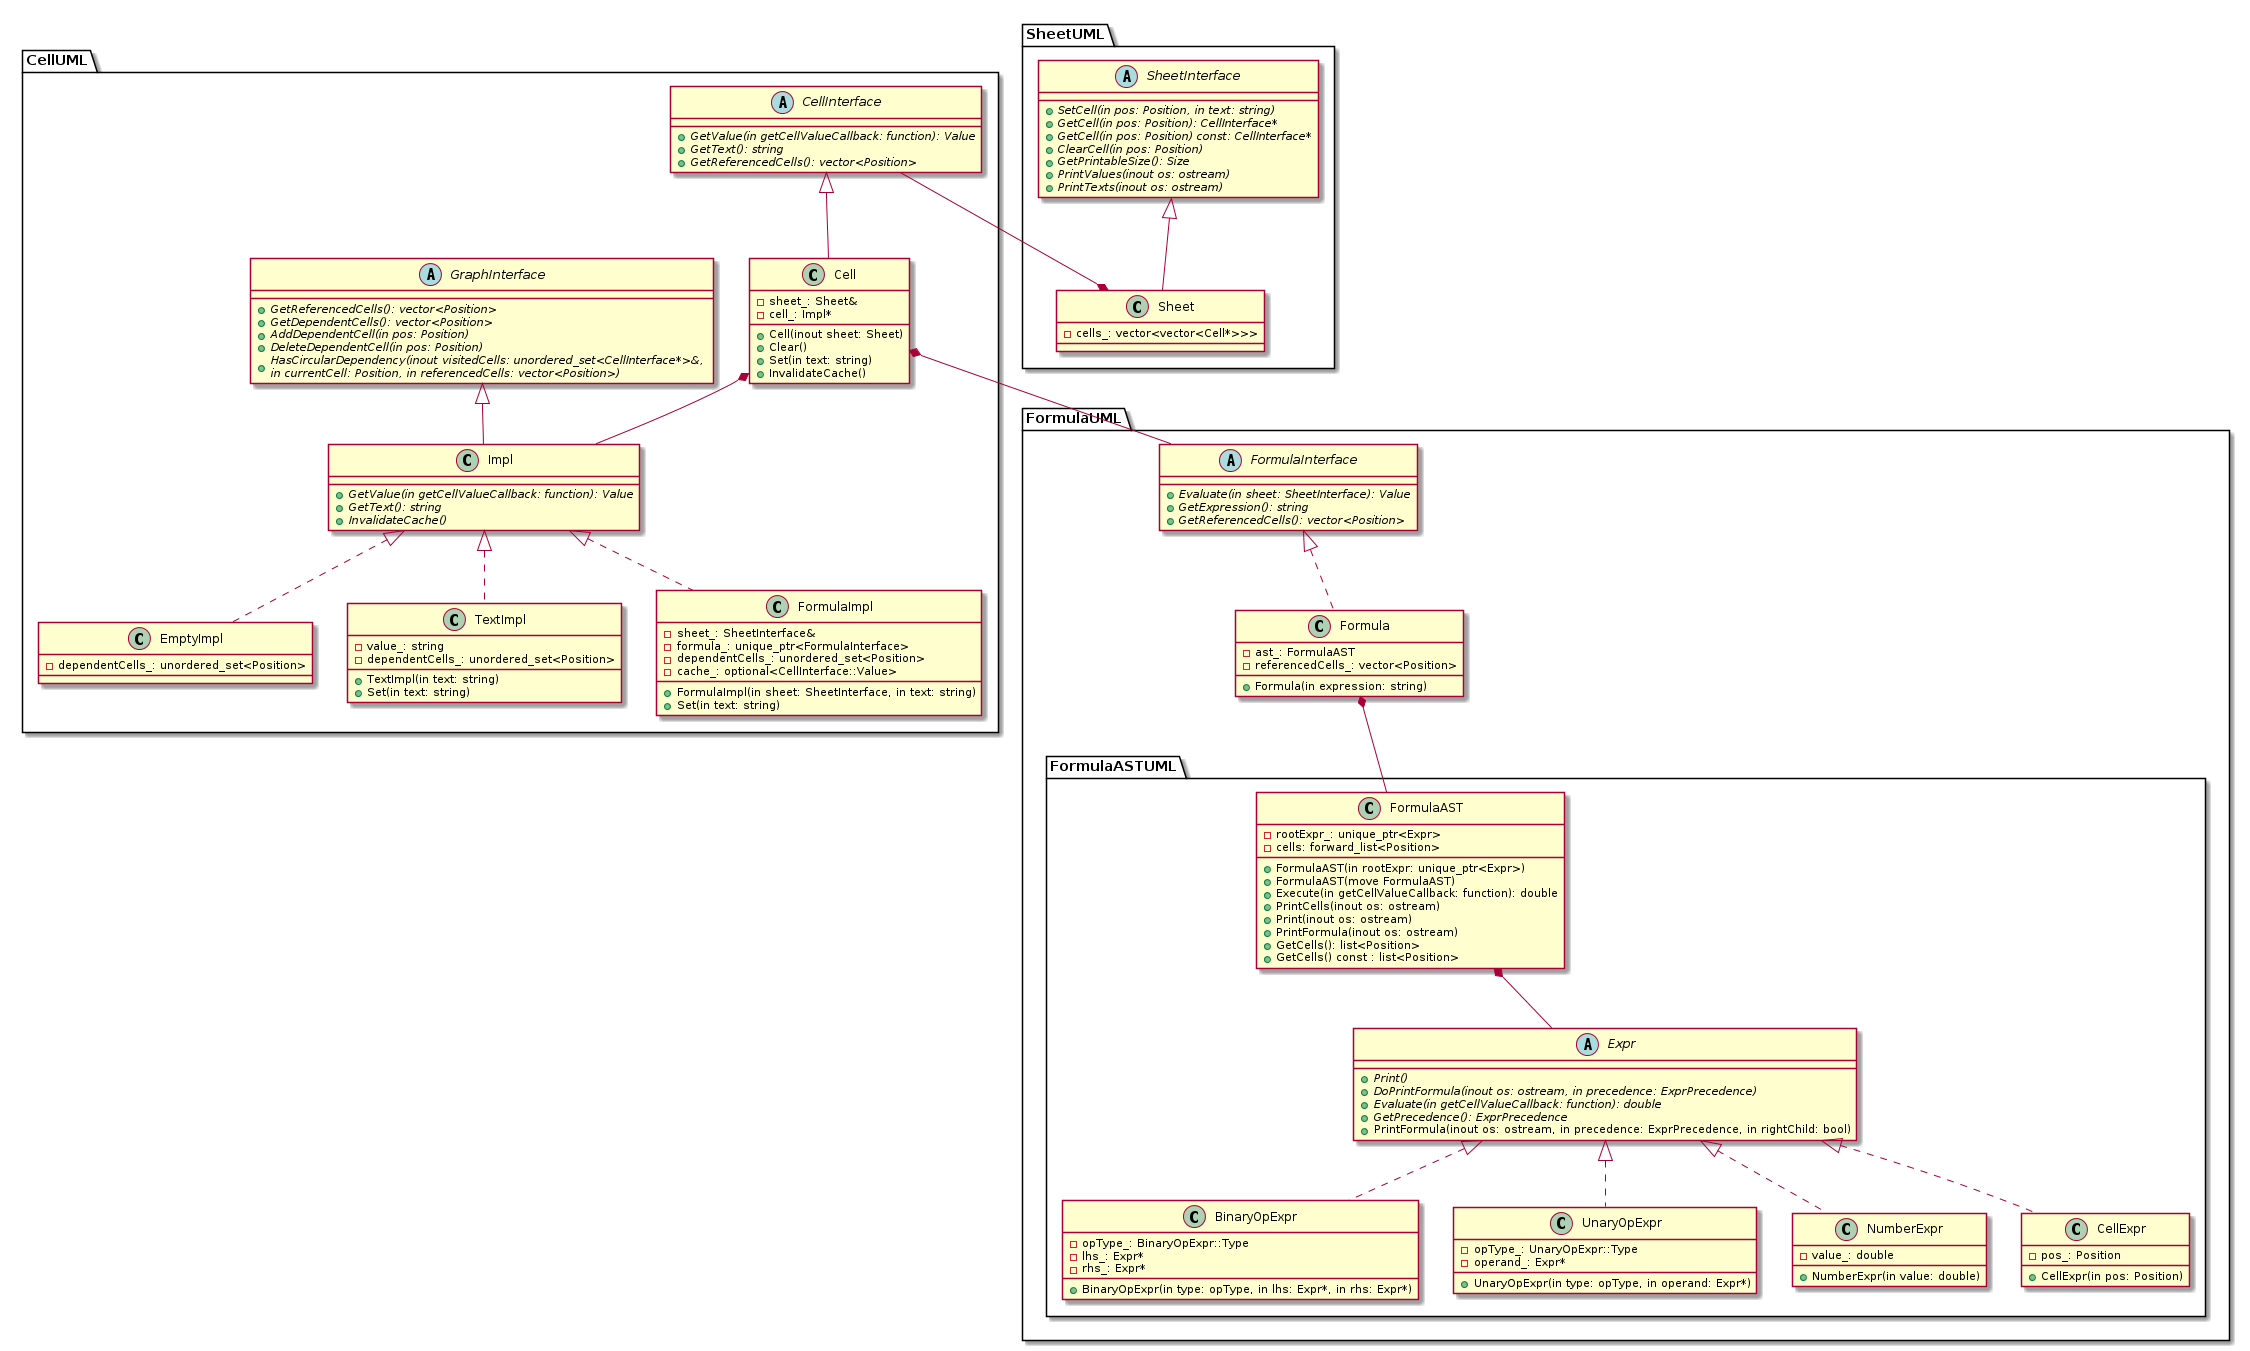
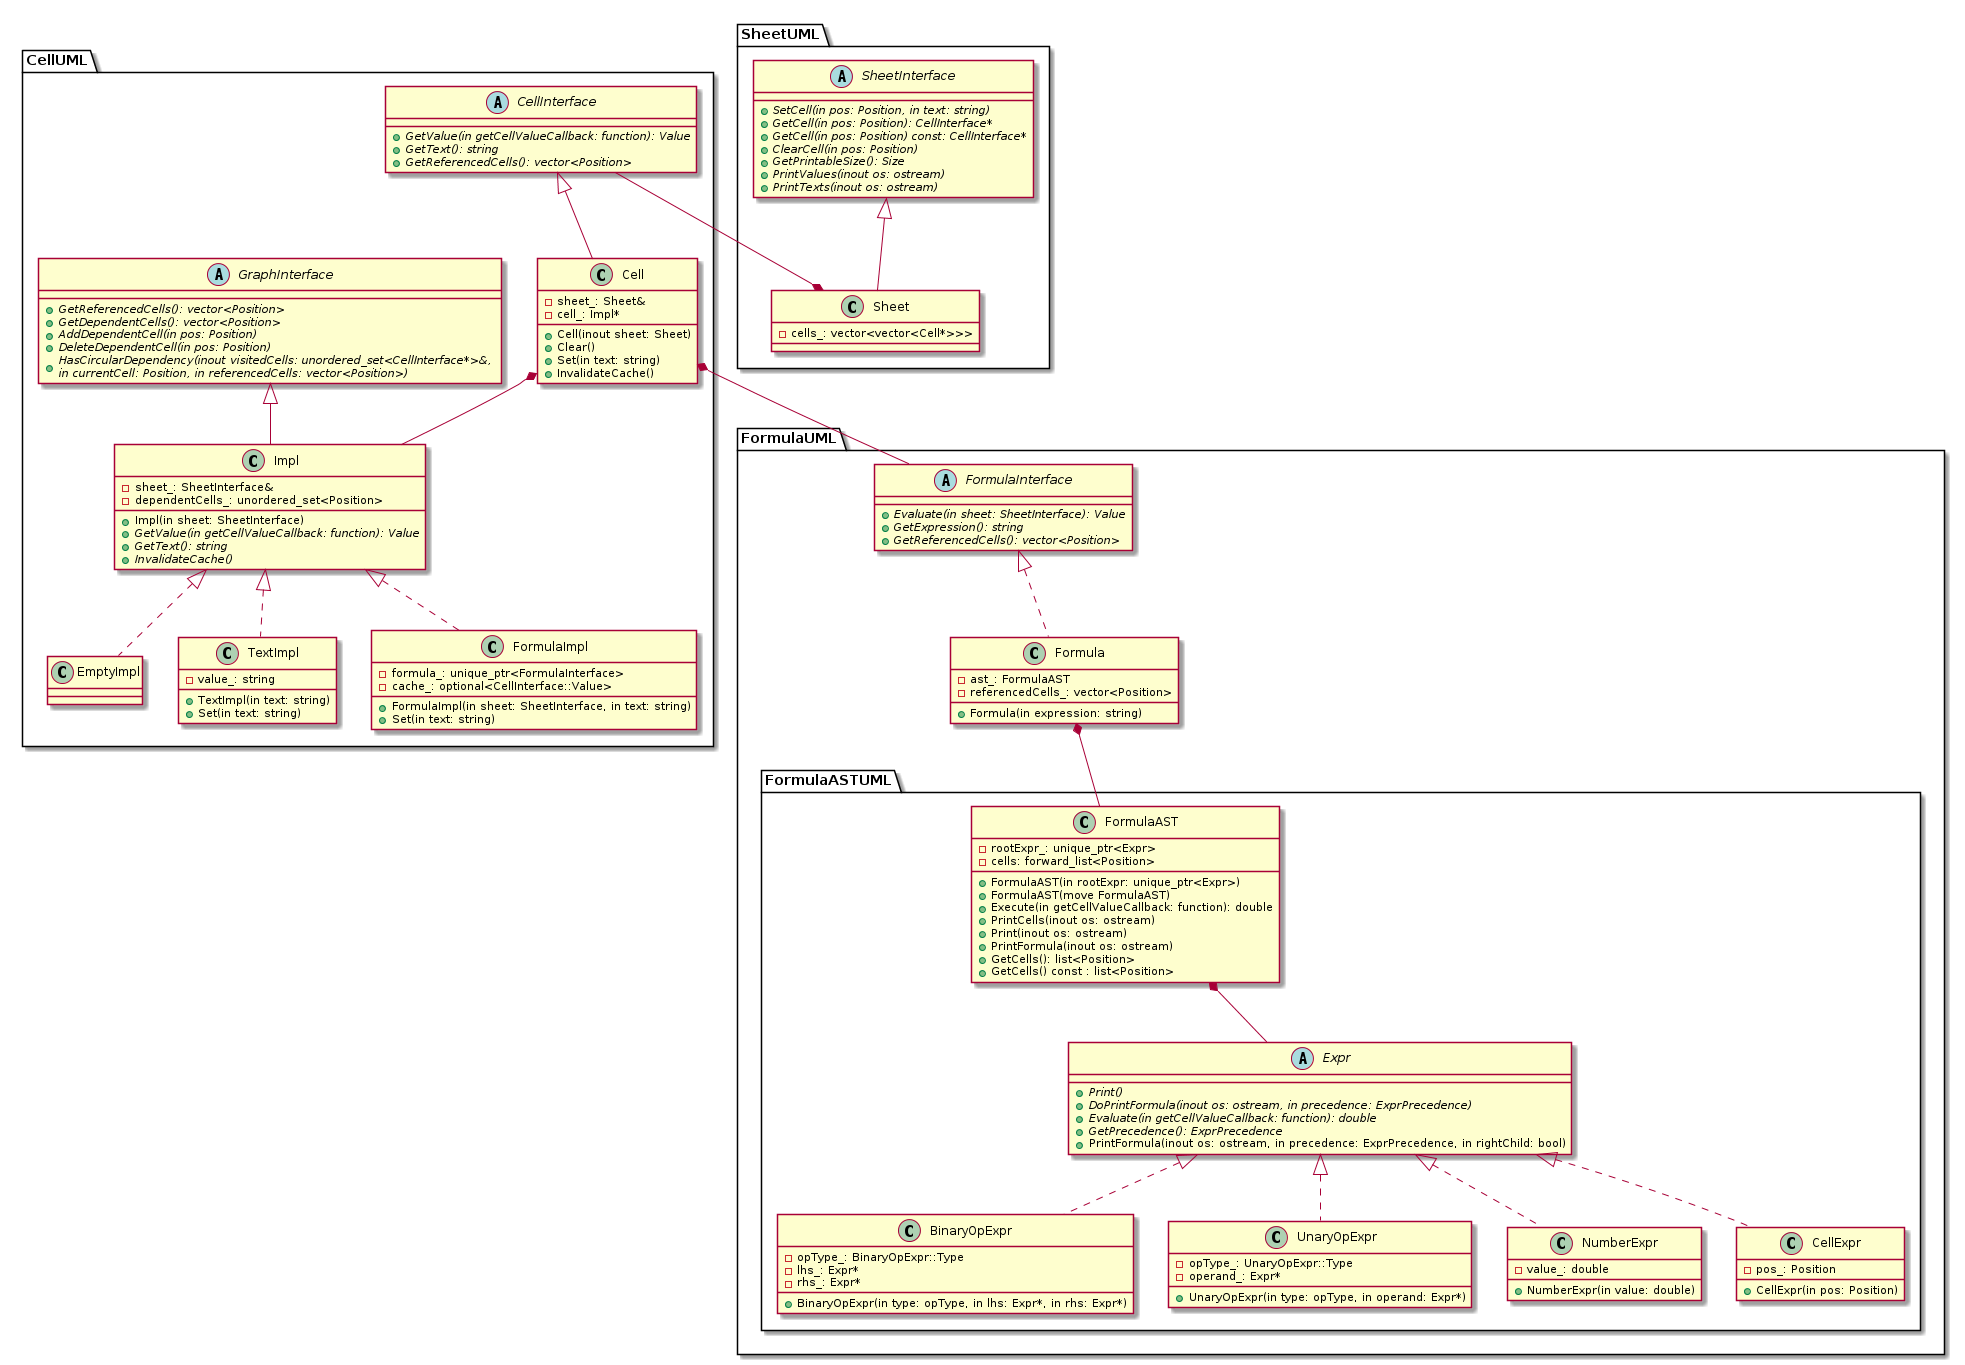
Move dependentCells_ to Impl

Changed region(s): [[0.0, 0.0, 0.9934, 1.0], [0.0, 0.0311, 0.0621, 0.0622]]

diff --git a/headers/cell.h b/headers/cell.h
@@ -67,12 +67,21 @@ class Cell : public CellInterface {
 // ------------------------------------------------------------
 class Cell::Impl : public GraphInterface {
  public:
+  Impl(const SheetInterface& sheet);
   virtual CellInterface::Value GetValue(
       std::function<double(std::string_view)> getCellValueCallback) const = 0;
   virtual std::string GetText() const = 0;
   virtual ~Impl() = default;
 
   virtual void InvalidateCache() const = 0;
+
+  std::vector<Position> GetDependentCells() const override;
+  void AddDependentCell(const Position pos) override;
+  void DeleteDependentCell(const Position pos) override;
+
+ private:
+  SheetInterface& sheet_;
+  std::unordered_set<Position> dependentCells_;
 };
 
 class Cell::FormulaImpl : public Impl {
@@ -90,18 +99,12 @@ class Cell::FormulaImpl : public Impl {
   std::string GetText() const override;
 
   std::vector<Position> GetReferencedCells() const override;
-  std::vector<Position> GetDependentCells() const override;
-
-  void AddDependentCell(const Position pos) override;
-  void DeleteDependentCell(const Position pos) override;
 
   // Сбрасывает свой cache_
   // а также вызывает InvalidateCache для всех dependentCells_;
   void InvalidateCache() const override;
 
  private:
-  SheetInterface& sheet_;
   std::unique_ptr<FormulaInterface> formula_;
-  std::unordered_set<Position> dependentCells_;
   mutable std::optional<CellInterface::Value> cache_;
 };
